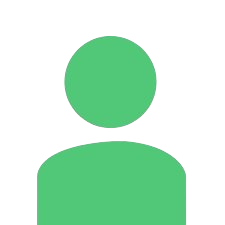
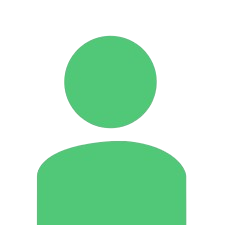
Updates translations, page formatting

diff --git a/src/services/TranslationService.ts b/src/services/TranslationService.ts
@@ -39,6 +39,9 @@ export const PLATO: string = "Plato";
 export const CHANGED_PRIVACY_TYPE: string = "changed-privacy-type";
 export const PASSWORD_RESET_REQUEST_SENT: string = "password-reset-request-sent";
 export const NEW_CONFIRMATION_EMAIL_REQUESTED: string = "new-confirmation-email-requested";
+export const NEW_PASSWORD: string = "new-password";
+export const CONFIRM_NEW_PASSWORD: string = "confirm-new-password";
+export const SUBMIT: string = "submit";
 export const YOU_ARE_NOW_FOLLOWING: string = "you-are-now-following";
 export const ERROR_TRYING_TO_FOLLOW: string = "error-trying-to-follow";
 export const THANKER_IS_THANKFUL_TO: string = "thanker-is-thankful-to";
@@ -255,6 +258,9 @@ export class TranslationService {
             [ERROR_INVALID_EMAIL, "Endereço providenciado não é um e-mail válido:"],
             [PASSWORD_RESET_REQUEST_SENT, "Pedido para configuração de nova password enviado"],
             [NEW_CONFIRMATION_EMAIL_REQUESTED, "Pedido para nova confirmação de e-mail feito!"],
+            [NEW_PASSWORD, "Nova password"],
+            [CONFIRM_NEW_PASSWORD, "Confirma nova password"],
+            [SUBMIT, "Submeter"],
             [ERROR_NAME_NOT_EMPTY, "Nome não pode estar vazio"],
             [ERROR_HANDLE_NOT_EMPTY, "Handle não pode estar vazio"],
             [ERROR_EMAIL_NOT_EMPTY, "E-mail não pode estar vazio"],
@@ -446,6 +452,9 @@ export class TranslationService {
             [ERROR_INVALID_EMAIL, "Provided e-mail is not a valid one:"],
             [PASSWORD_RESET_REQUEST_SENT, "Password reset request sent"],
             [NEW_CONFIRMATION_EMAIL_REQUESTED, "New confirmation e-mail requested"],
+            [NEW_PASSWORD, "New password"],
+            [CONFIRM_NEW_PASSWORD, "Confirm new password"],
+            [SUBMIT, "Submit"],
             [THANKER_IS_THANKFUL_TO, "Thanker is thankful to:"],
             [QUOTE_1, "Gratitude makes sense of our past, brings peace for today, and creates a vision for tomorrow"], //Melody Beattie
             [QUOTE_2, "The root of joy is gratefulness"], //David Steindl-Rast

diff --git a/src/ResetPasswordPage.tsx b/src/ResetPasswordPage.tsx
@@ -1,6 +1,8 @@
 import { ChangeEvent, useState } from "react";
 import { useNavigate, useParams } from "react-router-dom"
 import { UserService } from "./services/UserService";
+import './style/ResetPassword.css';
+import { CONFIRM_NEW_PASSWORD, NEW_PASSWORD, SUBMIT, TranslationService } from "./services/TranslationService";
 
 export const ResetPasswordPage = () => {
     const userService: UserService = new UserService();
@@ -12,6 +14,8 @@ export const ResetPasswordPage = () => {
     const [displaySuccess, setDisplaySuccess] = useState<boolean>(false);
     const [displayError, setDisplayError] = useState<boolean>(false);
     const navigate = useNavigate();
+
+    const translationService: TranslationService = new TranslationService();
 
     const handlePasswordChange = (event: ChangeEvent<HTMLInputElement>) => {
         setPassword(event.target.value);
@@ -39,13 +43,13 @@ export const ResetPasswordPage = () => {
     }
 
     return (
-        <div className='top-padding'>
+        <div className='top-padding form'>
             <h2>Reset Password</h2>
             <br/>
-            <form onSubmit={setNewPassword}>
-                New password&nbsp;<input type='password' name='password' onChange={handlePasswordChange} />
-                Confirm password&nbsp;<input type='password' name='confirmPassword' onChange={handleConfirmPasswordChange} />
-                <button type='submit'>Submit</button>
+            <form onSubmit={setNewPassword} className="form">
+                <input type='password' name='password' onChange={handlePasswordChange} placeholder={translationService.getFor(NEW_PASSWORD)} /><br/>
+                <input type='password' name='confirmPassword' onChange={handleConfirmPasswordChange} placeholder={translationService.getFor(CONFIRM_NEW_PASSWORD)} /><br/><br/>
+                <button type='submit'>{translationService.getFor(SUBMIT)}</button>
             </form>
             <br/>
             {displaySuccess && 'New password has been reset!\nGo to login page or wait to be redirected there...'}

diff --git a/src/services/Interceptor.ts b/src/services/Interceptor.ts
@@ -1,7 +1,8 @@
-import axios from 'axios';
+import axios, { AxiosError } from 'axios';
 import { SERVICE_URL } from '../Constants';
 import { AuthService } from './AuthService';
 import { AuthResponse } from '../model/AuthResponse';
+import { enqueueSnackbar } from 'notistack';
 
 const authService: AuthService = new AuthService();
 
@@ -44,8 +45,17 @@ http.interceptors.response.use(
         originalRequest.headers.Authorization = `Bearer ${authResponse.token}`;
         return axios(originalRequest);
       } catch (error) {
-        authService.deleteTokens();
-        window.location.href = '/';
+        const axiosError: AxiosError = error as AxiosError;
+
+        if (axiosError.message.includes("409")) {
+          enqueueSnackbar("Your account has been blocked, Contact us for further details", { variant: "error" })
+        }
+
+        setTimeout(() => {
+          authService.deleteTokens();
+          window.location.href = '/';
+        }, 1500);
+        
       }
     }
     return Promise.reject(error);

diff --git a/src/LoginPage.tsx b/src/LoginPage.tsx
@@ -92,7 +92,7 @@ export const LoginPage: React.FC<LoginProps> = ({onLogged}) => {
             placeholder={translationService.getFor(PASSWORD)}
             className="smaller-input"
           /><br/><br/>
-          {!authenticating && <button type='submit'>{translationService.getFor(LOGIN)}</button>}
+          {!authenticating && <button type='submit' className="thanker-button">{translationService.getFor(LOGIN)}</button>}
           {authenticating && <div className='centerish'><Loader size="small" /></div>}
         </form>
         <div className="options">
@@ -101,6 +101,9 @@ export const LoginPage: React.FC<LoginProps> = ({onLogged}) => {
           {!authenticating && <a className='label-link' onClick={requestNewConfirmation}>{translationService.getFor(NEW_CONFIRMATION)}</a>}
         </div>
         <ThankerIntro />
+        <div>
+          <a href="mailto:beatrue@thanker.co">beatrue@thanker.co</a>
+        </div>
       </div>
     );
    

diff --git a/src/style/Styles.css b/src/style/Styles.css
@@ -127,8 +127,8 @@ button {
     box-shadow: 0 0 0 0 rgb(255, 255, 255);
 }
 
-.thanks-button:hover {
-    box-shadow: 0 0px 0 2px #AFE1AF;
+.thanks-button,.thanker-button:hover {
+    box-shadow: 2px 2px 0px 0px #AFE1AF;
 }
 
 .thanks-button {
@@ -138,6 +138,14 @@ button {
     background-color: #50C878;
     font-weight: bold;
     font-size: 24px;
+    color: #F9F6EE;
+}
+
+.thanker-button {
+    border-color: #AFE1AF;
+    background-color: #50C878;
+    font-weight: bold;
+    font-size: 16px;
     color: #F9F6EE;
 }
 

diff --git a/src/cards/ThankerIntro.tsx b/src/cards/ThankerIntro.tsx
@@ -1,11 +1,12 @@
 import { THANKER_INTRO, TranslationService } from "../services/TranslationService"
+import '../style/Intro.css';
 
 export const ThankerIntro = () => {
 
     const translationService: TranslationService = new TranslationService();
 
     return (
-        <div>
+        <div className="intro">
             <p><b>{translationService.getFor(THANKER_INTRO)}</b></p>
         </div>
     )

diff --git a/src/utils/UserUtils.ts b/src/utils/UserUtils.ts
@@ -1,5 +1,5 @@
 import { UserResponse } from "../model/UserModel";
-import defaultProfilePic from '../assets/images/profile_colorized.png';
+import defaultProfilePic from '../assets/images/profile_colorized_white_bg.png';
 
 
 export const getUniqueById = (list: UserResponse[]): UserResponse[] => {

diff --git a/src/style/Intro.css b/src/style/Intro.css
@@ -1,0 +1,6 @@
+.intro {
+    margin-bottom: 142px;
+    margin-left: 64px;
+    margin-right: 64px;
+    font-size: 20px;
+}

diff --git a/src/style/ResetPassword.css b/src/style/ResetPassword.css
@@ -1,0 +1,3 @@
+.form {
+    flex-direction: column;
+}
